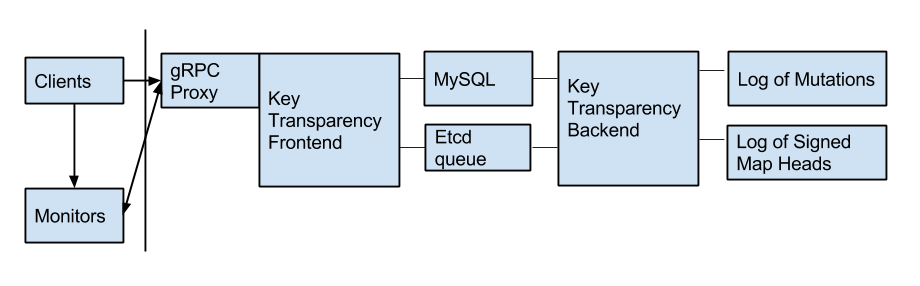
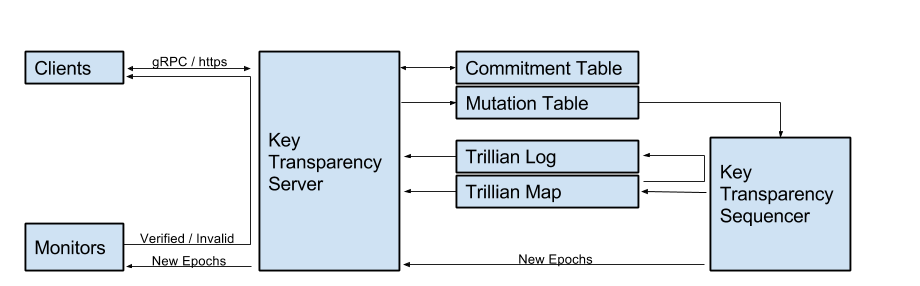
Update Architecture Diagram
Fixes #735

diff --git a/docs/architecture.md b/docs/architecture.md
@@ -2,78 +2,80 @@
 
 ![Architecture](images/architecture.png)
 
-# Queue
-The Queue is the central component of the Key Server.
-The Queue gives a definitive, consistent ordering to all changes made to the 
-key server data structure.
+#Clients
+Clients make requests to Key Transparency servers over HTTPS / JSON or gRPC.  
 
-The Queue is a Multi-Writer, Single Reader data object.
-Previous iterations had the Queue as a Multi-Writer, Multi-Reader object, where 
-each node would receive the same data, much like the Raft Consesnsus Algorithm. 
-In the Single Reader scheme, the queue is keeping track of global state, ie. how 
-many items have been processed and added to the database.
+# Key Transparency Server
+The front end servers reveal the mappings between user identifiers (eg email
+address) and their anonymized index in the Trillan Map with the Verifiable
+Random Function. 
 
-The Queue stores mutations that have not been processed by the signer and 
-written to the Merkle Tree data structures.
+The front ends also provide account data for particular users and the mappings
+between that account data and the public commitments stored in the Trillian
+Map.
 
-## Queue Atomicity Notes
-Mutations in the queue may be deleted from the queue once they have been 
-successfully processed by the signer and committed to the leaf database. We do 
-not require that an epoch advancement occur before queue entries may be deleted.
+# Commitment Table
+The commitment table stores account values and the associated commitment key 
+nessesary to verify the commitment stored in the Trillian Map. 
 
-Cross-Domain Transactions:
-To process an item from the queue, the item is first deleted. If it cannot be
-deleted (due to another process dequeueing it first or any other error), the next
-item is fetched and processed. Once an item is safely deleted from the queue, it
-is processed and the changes are written to the database. If the database commit
-fails, all changes are rolled back. The item is not placed back in the queue and
-is "lost". However, since clients perform retries until the data they are trying
-to update appears in the database, this data loss does not violate the API
-contract.
+# Mutation Table
+When a user wishes to make a change to their account, they create a signed change
+request (also known as a mutation) and send it to a Key Transparency frontend.
 
-## Queue Epoch Advancement Notes
-When advancing epochs, we can't include the expected epoch number because 
-multiple epoch advancement requests could be received by the queue out-of-order.
+The frontend then saves the mutation in the mutation table, allowin the database 
+to assign the mutation a monotinically increasing sequence number or timestamp, 
+establishing an authoritative ordering for new mutations.
 
-If we assume a single writer case, we could add fancy logic to the Signer such 
-that no more than one epoch advancement request is ever present in the  queue at
-once. This, however, would require the Signer to know what's in the queue when it
-crashes and resumes.
+This strict ordering requirement could be loostened in the future for
+performance reasons.  Strictly speaking only given sets (batches) of mutations
+that need to be ordered relative to other sets.
 
-# Signer
-The signer processes mutations out of the queue.
-In the present configuration, the signer writes each node into the leaf table 
-with a version number in the future. If the signer crashes, it simply picks up
-processing the queue where it left off. Writing to the same node twice with the 
-same data is permitted.
+# Trillian Map
+The Trillian Map stores the sparse merkle tree and is designed to scale to
+extremely large trees. The Trilian Map is updated in batches.
 
-The signer applies the mutations in the queue to the entries contained in 
-`current_epoch - 1`. Duplicate mutations processed during the same epoch will 
-succeed. Duplicate mutations processed across epochs SHOULD fail. (Each 
-mutation should be explicit about the previous version of data it is modifying.)
+# Trillian Log
+The Trillian Log stores a dense merkle tree in the style of Ceritificate 
+Transparency.  The Key Transparency Sequencer adds SignedMapRoots from the
+Trillian Map to the Trillian Log as they are created. 
 
-To advance to the next epoch, the signer inserts an epoch advancement marker 
-into the queue and waits to receive it back on the queue before committing all 
-the changes received between epoch markers into a version of the sparse merkle
-tree and signing the root node. 
+# Key Transparency Sequencer
+The Key Transparency Sequencer runs periodically.  It creates a batch of new 
+mutations that have occurred since the last sequencing run. It then verifies 
+the mutations and applies them to the currently stored values in the map.
 
-The Signer also takes each item received in the queue and sends it to the 
-Log of Mutations, so that Monitors can recreate the tree by just reading the 
-Log of Mutations.
+After each new map revision, the sequencer sends the new SignedMapRoot (SMR) to
+the Trillian Log which must sequence the new SMR before the front ends will
+start using the new map revision. 
 
-# Front End Nodes
-Front end nodes submit mutations into the queue. 
+After each new map revision, the sequencer will also send the new SignedMapRoot,
+SignedLogRoot, Mutations, and associated proofs to the front ends over a
+streaming gRPC channel. The frontends will then forward those same notification
+to active monitors over a streaming gRPC channel.
 
-In previous iterations, the nodes would also receive all mutations and apply 
-them to their local copies of the tree. In this revision, we decided the tree
-could be too big to fit on any particular node, so the tree has been moved to 
-a distributed database that the Signer updates.
+# Mutation
+Mutations in Key Transparency are defined as a SignedKeyValue object. 
+- The Key must the the valid index associated with the user's identifier. 
+- The Value is an object that contains 
+   - A cryptographic commitment to the user's data.
+   - The set of public keys that are allowed to update this account.
+- SignedKV also contains the hash of the previous SignedKeyValue. This helps
+  break race conditions and it forms a hash chain in each account.
 
-# Log of Mutations
-Stores a signed list of mutations and epoch advancement markers that come out of 
-the queue.
+# Monitors
+Monitors process and verify the mutations that make each new epoch.
+Monitors verify various policy properties of the SignedKeyValues in the
+Trillian Map.  In particular, monitors verify that 
+- Back pointers in each leaf do not skip over any values - an operation that
+  would be bandwidth intensive for mobile clients.  
+- SignedKeyValues are properly signed by public keys declared in the prior
+  epoch. 
 
-# Log of Signed Map Heads
-Stores a signed list of Signed Map Heads (SMHs), one for each epoch.
+Monitors also observe the Trillian Log to detect any log forks.  
+
+Monitors participate in a primitive form of gossip by signing the Trillian Log
+roots that they see and make them available over an API.
+
+
 
 
